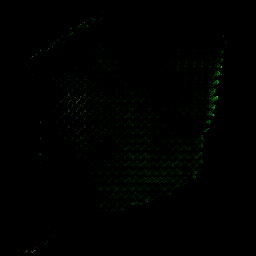
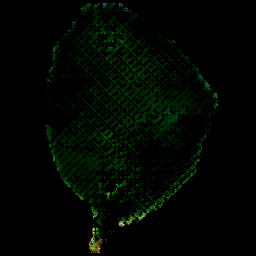
Batch commit: files 0 to 9

diff --git a/GINGER/generate.py b/GINGER/generate.py
@@ -1,42 +1,36 @@
 import torch
 from torchvision.utils import save_image
 import os
-from model import Generator  # Import your Generator class from the model file
+from model import Generator  
 
-# Define constants
 Z_DIM = 100
 CHANNELS_IMG = 3
 FEATURES_GEN = 16
-NUM_CLASSES = 2  # Number of classes you have
+NUM_CLASSES = 2  
 IMG_SIZE = 256
 GEN_EMBEDDING = 100
 
-# Ensure you have the correct device
 device = torch.device("cuda" if torch.cuda.is_available() else "cpu")
 
-# Load the generator model
 generator = Generator(Z_DIM, CHANNELS_IMG, FEATURES_GEN, NUM_CLASSES, IMG_SIZE, GEN_EMBEDDING).to(device)
-checkpoint = torch.load('GINGER/generator2.pth', map_location=device)
+checkpoint = torch.load('GINGER/generators/generator4_epoch-500.pth', map_location=device)
 generator.load_state_dict(checkpoint['model_state_dict'])
 generator.eval()
 
-# Function to generate images for a specific class
 def generate_images(generator, num_images, latent_dim, class_label, output_dir):
     os.makedirs(output_dir, exist_ok=True)
     noise = torch.randn(num_images, latent_dim, 1, 1, device=device)
-    labels = torch.tensor([class_label] * num_images, device=device)  # Replace with the actual class label
+    labels = torch.tensor([class_label] * num_images, device=device) 
     with torch.no_grad():
         generated_images = generator(noise, labels)
     for i in range(num_images):
         save_image(generated_images[i], os.path.join(output_dir, f'image_{i}_class_{class_label}.png'))
 
-# Parameters
-num_images = 100          # Number of images to generate
-latent_dim = 100         # Size of the latent vector (depends on your model)
-output_dir = 'GINGER/generated_images'  # Directory to save generated images
-class_label = 0          # Specify the class label you want to generate
+num_images = 100       
+latent_dim = 100         
+output_dir = 'GINGER/generated_images' 
+class_label = 0       
 
-# Generate images for a specific class
 generate_images(generator, num_images, latent_dim, class_label, output_dir)
 
 print(f"Generated {num_images} images of class {class_label} and saved to {output_dir}")
